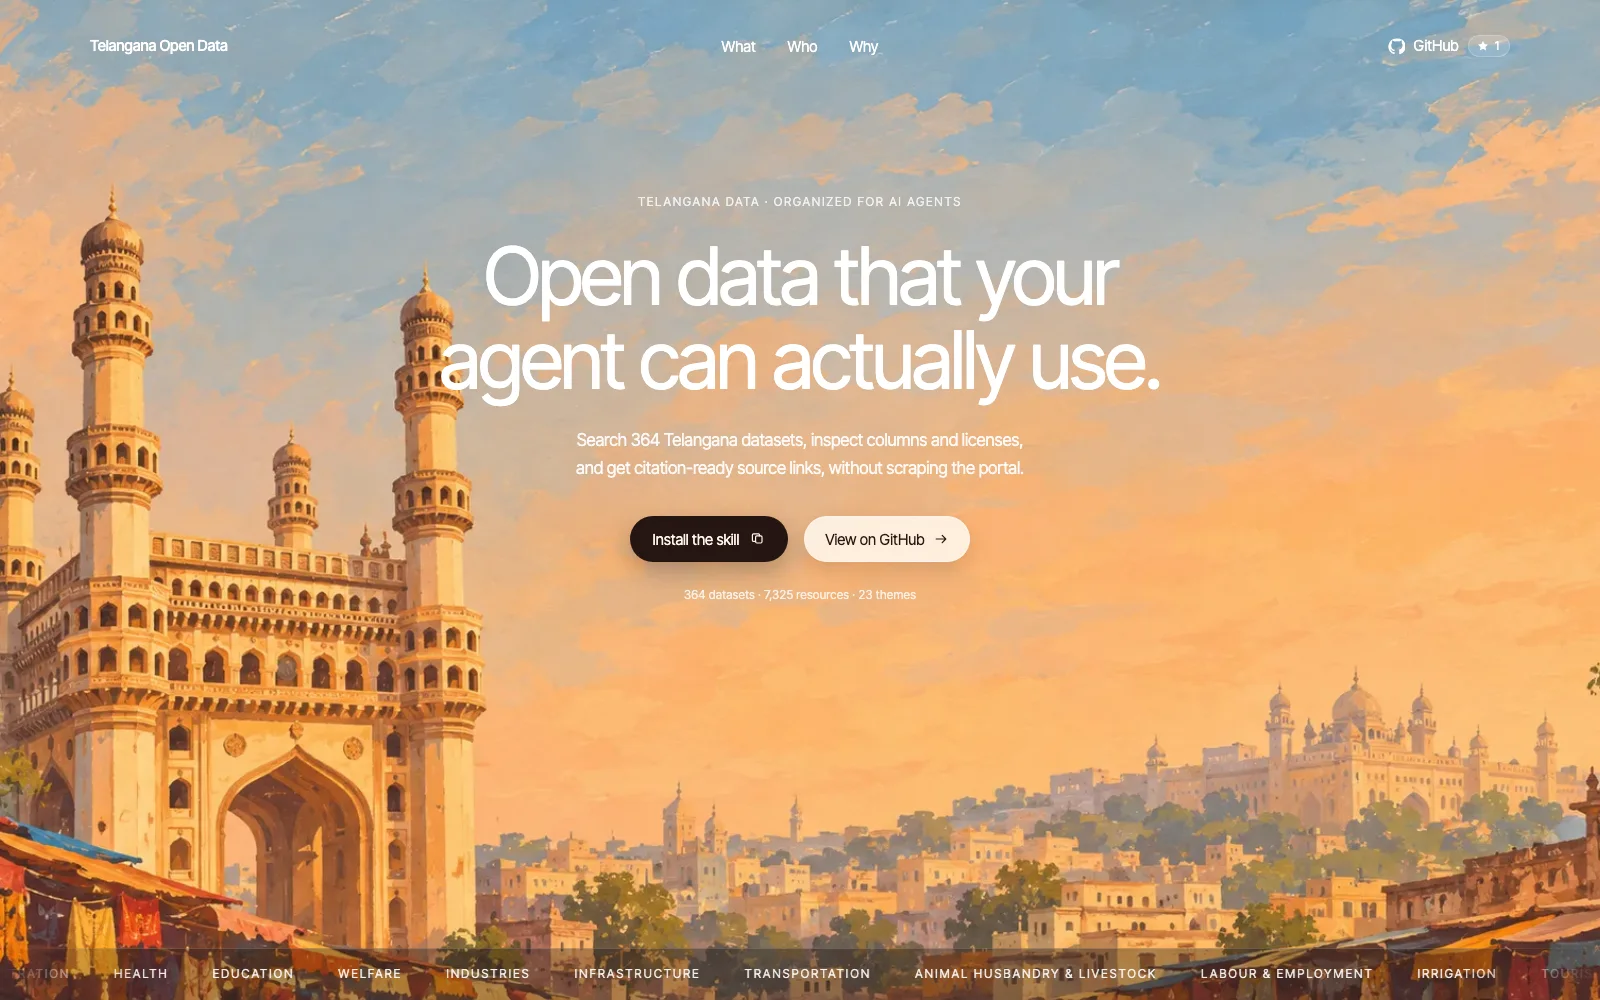
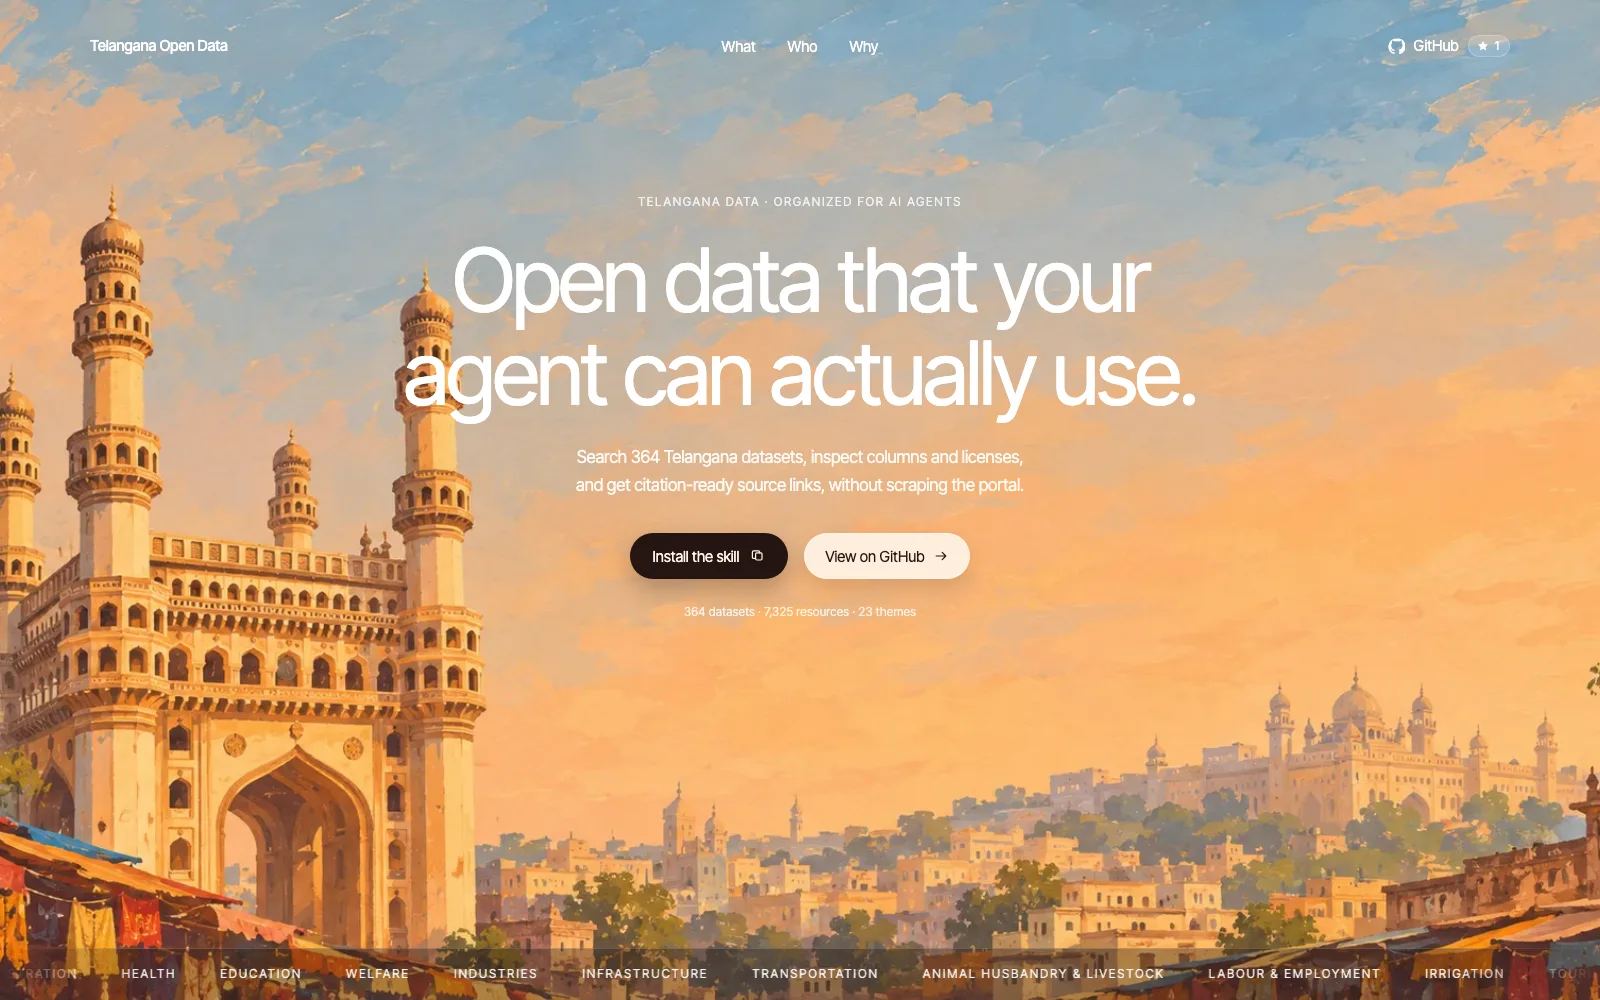
fix(site): scale the headline up on ultrawide screens
Refresh the README screenshot to match.

diff --git a/site/src/index.css b/site/src/index.css
@@ -14,7 +14,7 @@
   --text-micro: 0.75rem;
   --text-ui: 0.9375rem;
   --text-body: 1.0625rem;
-  --text-display: clamp(2.875rem, 5.5vw, 5rem);
+  --text-display: clamp(2.875rem, 5.5vw, 5.5rem);
 
   --radius-pill: 999px;
 
